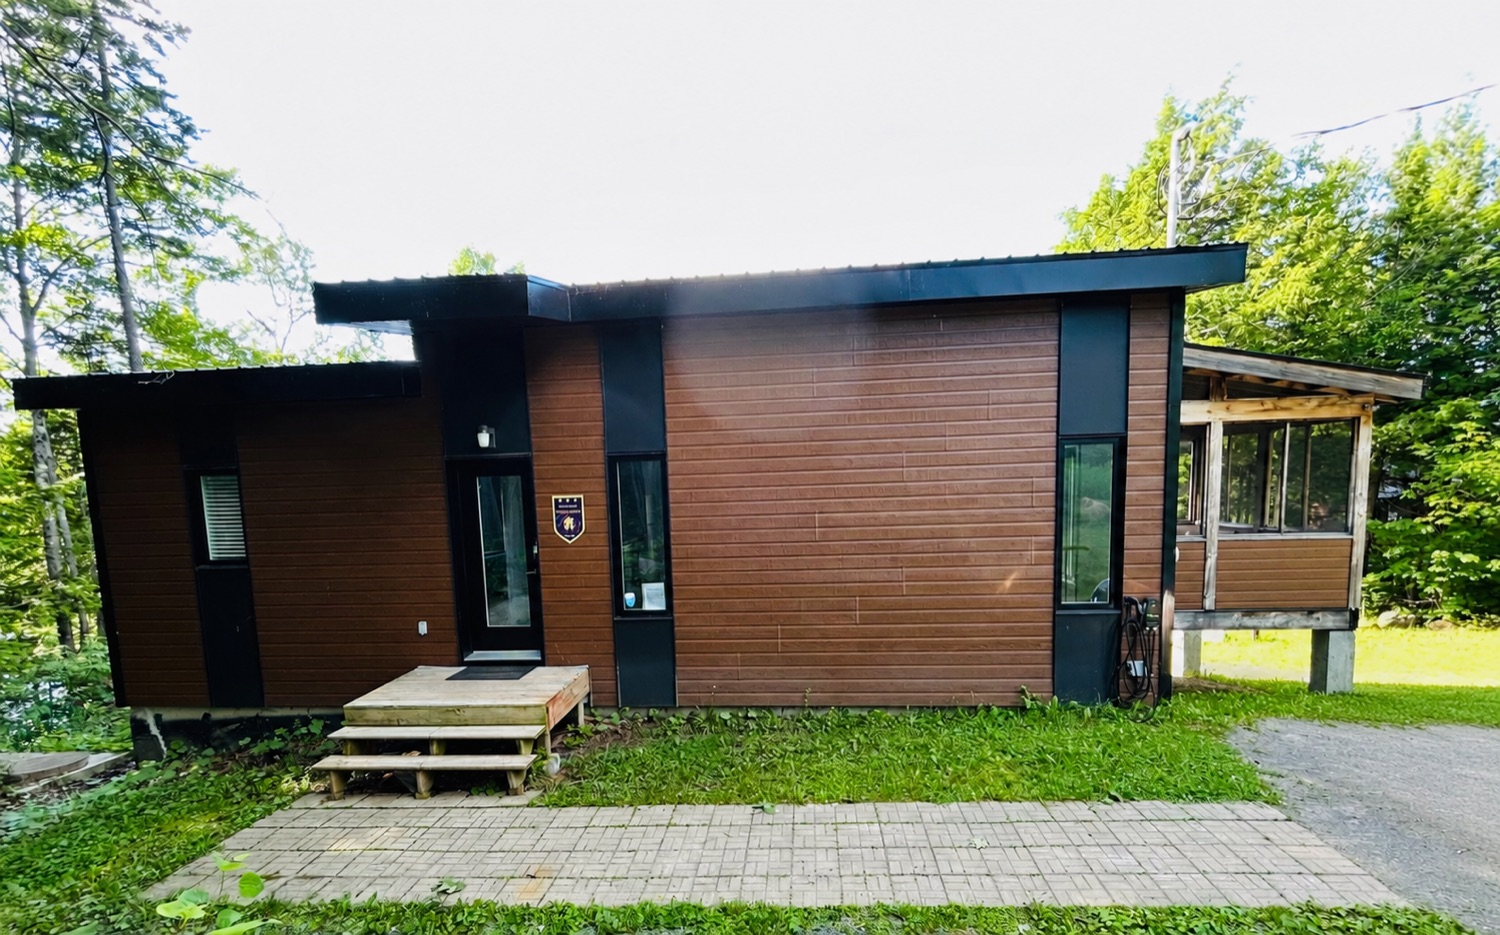
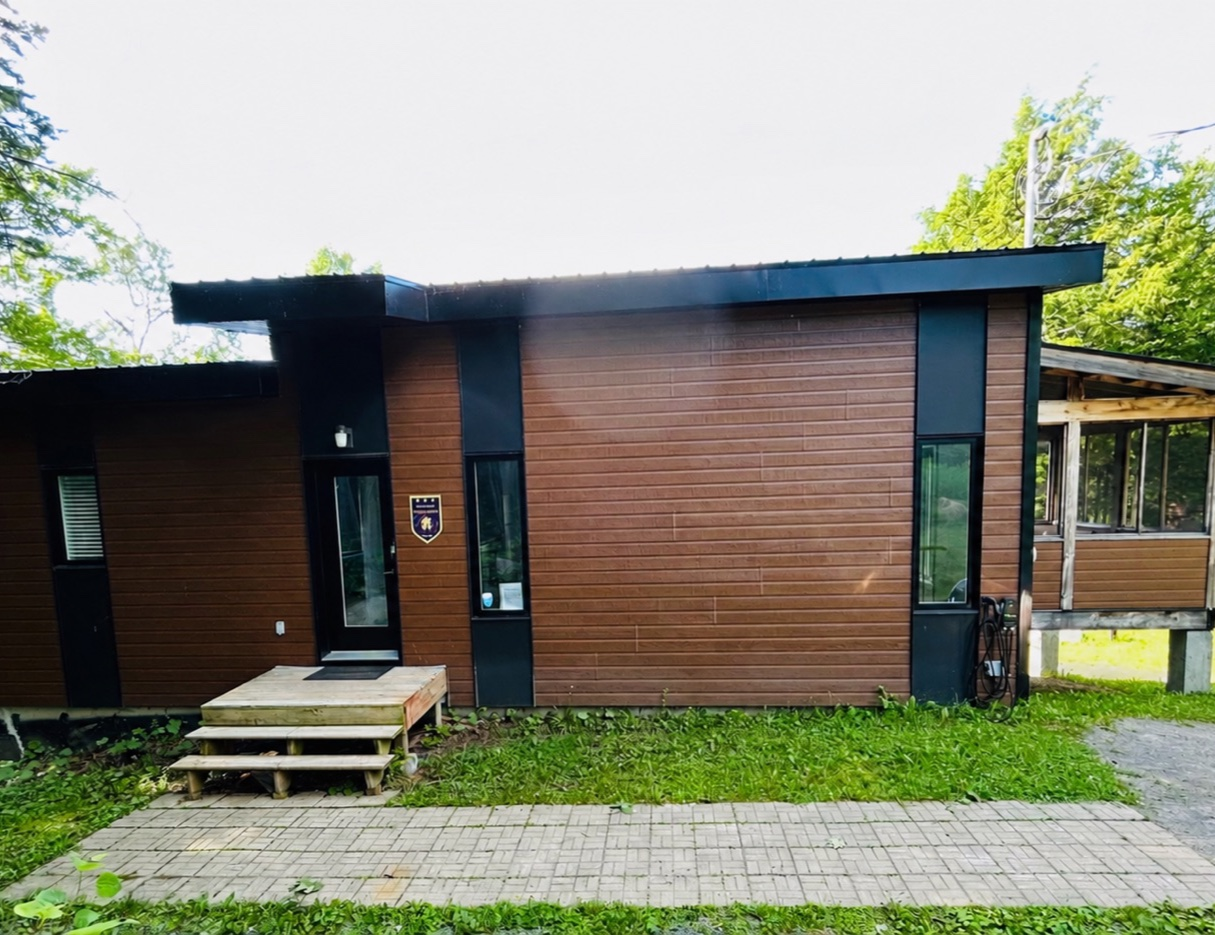
Emoji facturation 📄 + rognage leger des photos larges du chalet (facade + foyer, moins panoramiques)

diff --git a/index.html b/index.html
@@ -818,7 +818,7 @@
             <div class="feature reveal"><div class="ico">🏠🏢</div><h4>Services sur mesure</h4><p>Que ce soit pour votre résidence, votre location ou votre commerce, j'adapte mon expertise à vos besoins spécifiques.</p></div>
             <div class="feature reveal"><div class="ico">🚨</div><h4>Disponible 24/7 pour les urgences locatives</h4><p>Un imprévu&nbsp;? Je reçois vos urgences en tout temps et je m'organise pour intervenir rapidement et remettre votre propriété en parfait état.</p></div>
             <div class="feature reveal"><div class="ico">💼</div><h4>Entreprise enregistrée & assurée</h4><p>Confiez-moi vos espaces en toute confiance. Mon entreprise est en règle, avec une assurance responsabilité civile de 2&nbsp;M$ pour protéger vos biens.</p></div>
-            <div class="feature reveal"><div class="ico">🧾</div><h4>Facturation en règle</h4><p>Pour vos crédits d'impôt, votre comptabilité et vos déductions fiscales.</p></div>
+            <div class="feature reveal"><div class="ico">📄</div><h4>Facturation en règle</h4><p>Pour vos crédits d'impôt, votre comptabilité et vos déductions fiscales.</p></div>
             <div class="feature reveal"><div class="ico">🫱🏼🫲🏾</div><h4>Estimation gratuite</h4><p>Obtenez une estimation sans frais et sans engagement pour planifier votre entretien.</p></div>
         </div>
     </section>